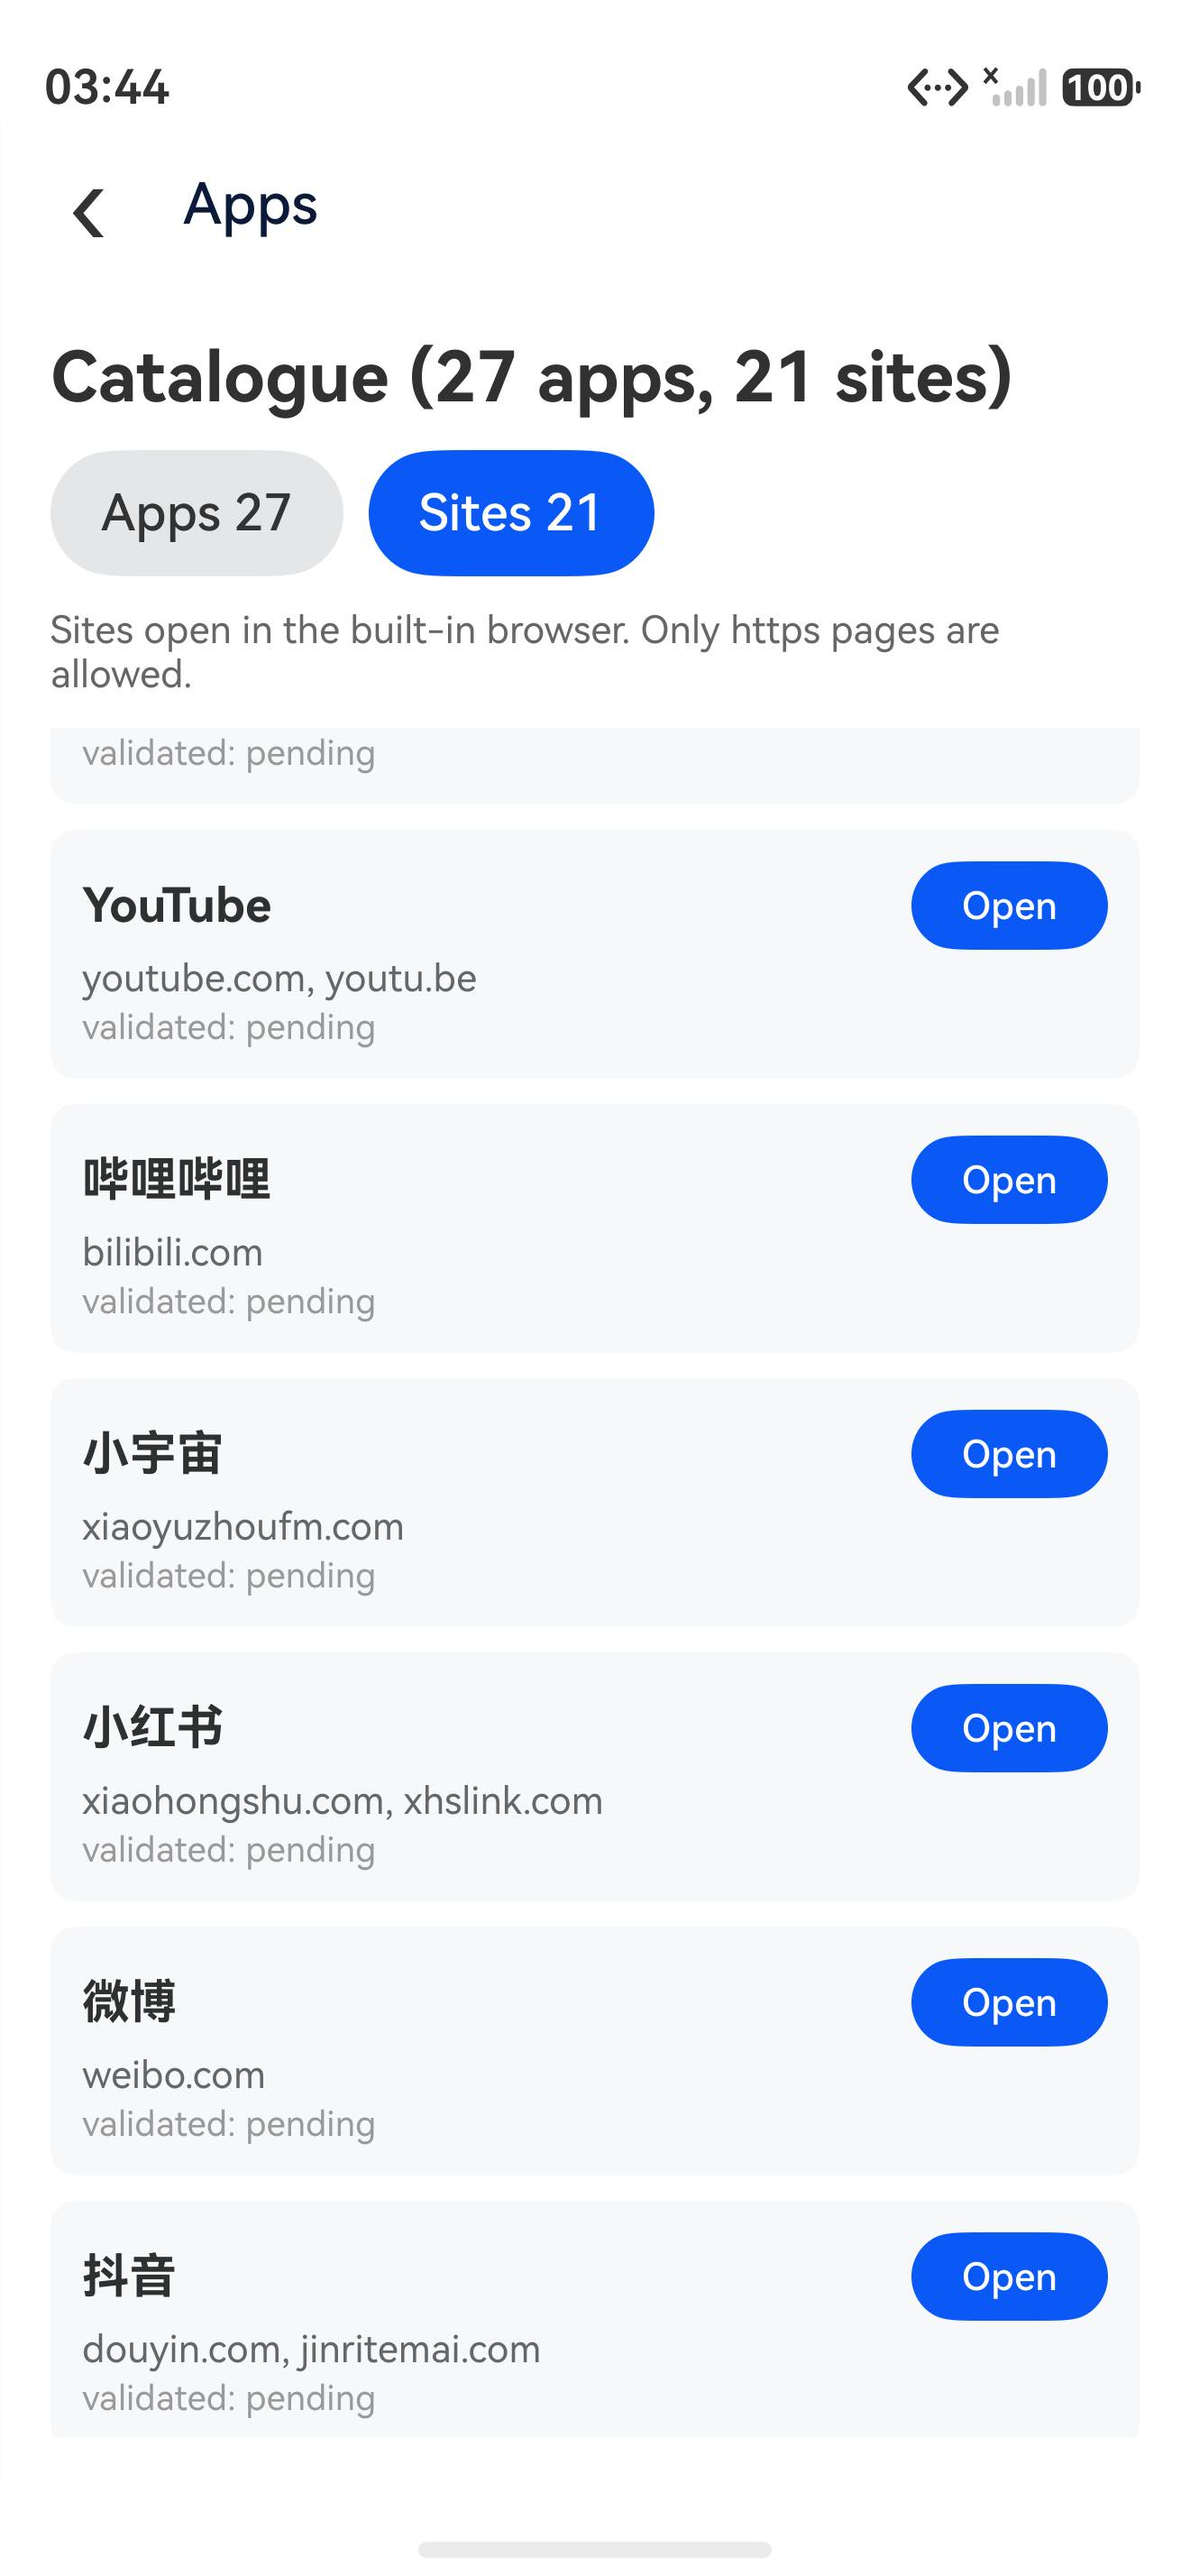
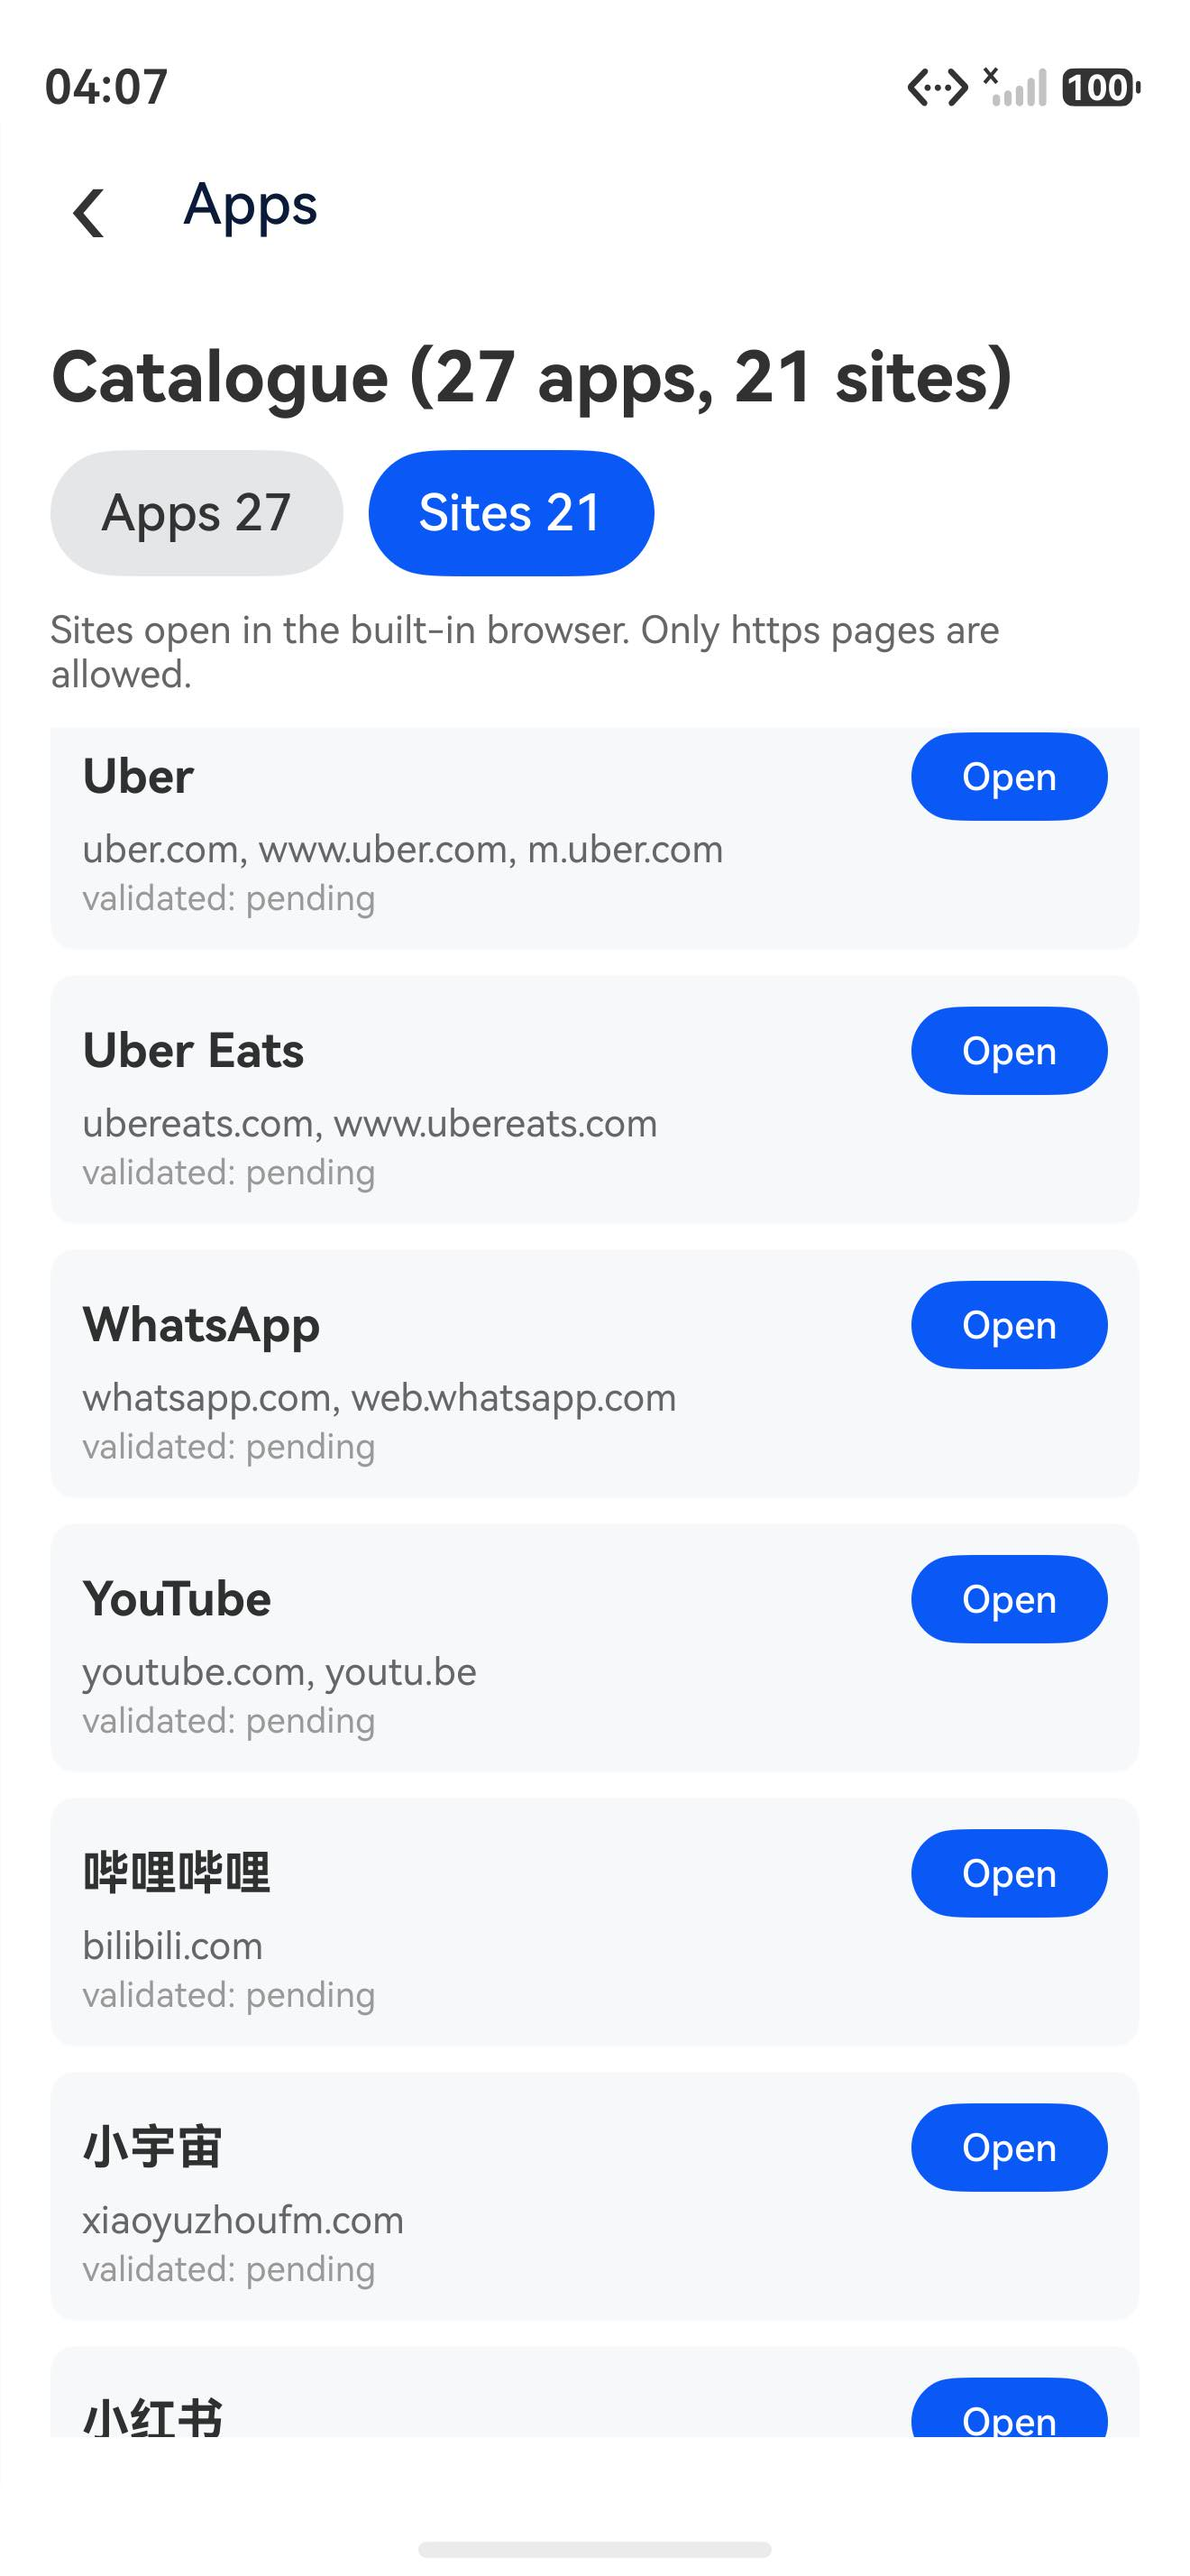
docs: reorder the README around the proof; add the Bilibili page; split chat and catalogue screenshots

diff --git a/README.md b/README.md
@@ -10,55 +10,67 @@
 
 </div>
 
+# HOPA
+
 **You have better things to do than tap through menus.**
 
 HOPA is a phone assistant for HarmonyOS. You say what you want in your own
-words. It opens the app, reads the screen, taps, types and scrolls — then tells
-you what happened.
+words. It opens the app or the website, reads the screen, taps, types and
+scrolls — then tells you what happened.
 
 Before money moves, it stops and asks. Every time.
 
-> **Today:** a working prototype. Chat, the browser, memory and the app-control
-> loop are real. On this emulator a small PC companion lends HOPA its hands.
-> [The honest details →](docs/history/status-2026-11-07.md)
+> **Today:** a working prototype. Chat, the browser, memory and the
+> app-and-website control loop are real. On this emulator a small PC companion
+> lends HOPA its hands. [The honest details →](docs/history/status-2026-11-07.md)
 
-## A small example
+## See it work
 
-> **You:** “Summarize what’s trending on Bilibili today in three short points.”
+> **You:** “Answer in Chinese: summarize the 2 hottest Bilibili videos today,
+> with titles and view counts.”
 >
-> **HOPA:** opens Bilibili, reads the page and gives you the three main trends.
-> If it needs to post, send or pay, it asks first.
+> **HOPA:** opens Bilibili, reads the page and answers in Chinese with the two
+> hottest videos. If it needs to post, send or pay, it asks first.
 
-<img src="docs/media/how-it-works.svg" alt="You ask; HOPA looks and acts; you see the result" width="100%" />
+<table>
+<tr>
+<td width="33%" align="center" valign="top">
 
-## What it feels like
+<img src="docs/media/chat.jpeg" alt="Real chat: HOPA lists the two hottest Bilibili videos in Chinese" height="560" />
 
-**You talk normally.** No commands, no scripts. “What’s hot on Bilibili?”
-“Send Alice a message.” “Find a charger under $30.”
+<br/><sub><b>Real: the answer.</b> The two hottest videos, in Chinese: 《近十几年的梗都在这里了》 (3.27M views) and 《“你土木的不会抽烟？？废物”》 (1.76M views).</sub>
 
-**It works in your apps.** HOPA uses the apps already on your phone, not a
-separate universe. No new ecosystem to learn.
+</td>
+<td width="33%" align="center" valign="top">
 
-**It stops for money.** Every payment waits for your yes — every time, in every
-mode.
+<img src="docs/media/bilibili-page.jpeg" alt="Real Bilibili page with video thumbnails and view counts" height="560" />
 
-**It remembers.** Tell it once: “I prefer aisle seats.” It keeps that, and you
-can delete it whenever you like.
+<br/><sub><b>Real: what it read.</b> The Bilibili page, with video cards and view counts, inside the compact browser.</sub>
 
-**It shows its work.** Every run has a history: what it did, how long it took,
-and what needed your approval.
+</td>
+<td width="33%" align="center" valign="top">
 
-**Your key, your data.** There is no HOPA account and no hosted backend. Your
-model key goes to the model you choose.
+<img src="docs/media/chat-example.svg" alt="Designed example: a WeChat message task with the approval dialog" height="560" />
 
-## Things you can say
+<br/><sub><b>Designed: the app side.</b> HOPA found Alice, drafted the message and stopped for approval. WeChat is not installed on the test emulator.</sub>
 
-| Sites and apps | The little things |
+</td>
+</tr>
+</table>
+
+The first two are real screenshots from the emulator. The WeChat image is a
+designed example of the app flow; the label says so.
+
+## What you can ask
+
+| Apps | The web |
 |---|---|
-| “What are the top stories on Zhihu?”<br/>“What’s trending on Xiaohongshu?”<br/>“Summarize the top videos on Bilibili.” | “Send Alice ‘running 10 minutes late’ on WeChat.”<br/>“Find a 4.5-star charger under $30 on Amazon.”<br/>“Remember that I prefer aisle seats.” |
+| “Send Alice ‘running 10 minutes late’ on WeChat.”<br/>“Check my messages on Feishu.”<br/>“Find a charger on Xianyu.” | “What are the top stories on Zhihu?”<br/>“What’s trending on Xiaohongshu?”<br/>“Summarize the top videos on Bilibili.” |
 
 <sub>Site examples run in the browser HOPA opens for you. App examples need
 that app installed; HOPA says when a bundle is missing instead of guessing.</sub>
+
+It also remembers facts and skills you choose to keep.
 
 **When money is involved**
 
@@ -67,42 +79,42 @@ that app installed; HOPA says when a bundle is missing instead of guessing.</sub
 > HOPA shows the item, the total and the seller. You choose **Deny** or
 > **Allow**. Nothing is paid without you.
 
+## What it can reach
+
 <table>
 <tr>
 <td width="50%" align="center" valign="top">
 
-<img src="docs/media/chat.jpeg" alt="Real chat: HOPA opens Bilibili and summarizes the trends" height="560" />
+<img src="docs/media/apps.jpeg" alt="HOPA app catalogue with Chinese apps" height="560" />
 
-<br/><sub><b>Real: a website task.</b> One prompt: HOPA opened Bilibili, read the page and answered in Chinese.</sub>
-
-</td>
-<td width="50%" align="center" valign="top">
-
-<img src="docs/media/chat-example.svg" alt="Designed example of a WeChat message task with the approval dialog" height="560" />
-
-<br/><sub><b>Designed: an app task.</b> A WeChat message with the approval step; WeChat is not installed on the test emulator.</sub>
-
-</td>
-</tr>
-<tr>
-<td width="50%" align="center" valign="top">
-
-<img src="docs/media/apps.jpeg" alt="HOPA app catalogue" height="560" />
-
-<br/><sub><b>Real: the app catalogue.</b> WeChat, Weibo, Xiaohongshu, Zhihu and more; when a bundle is missing, HOPA says so instead of guessing.</sub>
+<br/><sub><b>Real: the app catalogue.</b> WeChat, Weibo, Xiaohongshu, Zhihu and more; where a HarmonyOS bundle is missing, HOPA says so. The top of the same tab lists 12 apps with a verified bundle.</sub>
 
 </td>
 <td width="50%" align="center" valign="top">
 
 <img src="docs/media/sites.jpeg" alt="HOPA site catalogue with Bilibili, Xiaohongshu and Weibo" height="560" />
 
-<br/><sub><b>Real: the site catalogue.</b> Bilibili, Xiaohongshu, Weibo and more in the site catalogue.</sub>
+<br/><sub><b>Real: the site catalogue.</b> Bilibili, Xiaohongshu, Weibo and more open in the browser HOPA opens for you.</sub>
 
 </td>
 </tr>
 </table>
 
-## Getting started
+## Why it feels different
+
+- **You talk normally.** No commands, no scripts. “What’s hot on Bilibili?”
+  “Send Alice a message.” “Find a charger under $30.”
+- **It uses your apps, not a new ecosystem.** It reads the screen and works the
+  app or site you already have.
+- **It stops for money.** Every payment waits for your yes — every time, in
+  every mode.
+- **Your key, your data.** There is no HOPA account and no hosted backend. Your
+  model key goes to the model you choose.
+
+It also remembers what you tell it and can turn a successful run into a skill,
+both editable in the app.
+
+## Get started
 
 **1. Put HOPA on your phone.**
 Today the app is built and signed from source. The two commands live in the
@@ -117,42 +129,34 @@ in memory; it is not saved to preferences.
 On a real phone, enable the built-in screen control. On this emulator, start
 the small PC companion and connect it in **Settings → PC bridge**.
 
-**4. Say something.**
-Try “What are the top videos on Bilibili right now?”
+Why a companion? On a real phone, the system has a built-in way to let an
+assistant see and tap. This emulator does not have that switch. The companion
+is a small program on your computer that lends HOPA its hands. It runs on your
+machine, not in the cloud.
 
-### Why a PC companion?
-
-On a real phone, the system has a built-in way to let an assistant see and tap.
-This emulator does not have that switch. The companion is a small program on
-your computer that lends HOPA its hands. It runs on your machine, not in the
-cloud, and you only need it when the phone cannot do it alone.
+Then say: “What’s trending on Bilibili today?”
 
 ## Good to know
 
 - HOPA sees the screen you see. It cannot work in the background.
-- It will not guess an app it does not know.
+- It will not guess an app it does not know. Fifteen catalogue apps have no
+  HarmonyOS bundle yet, and five more have an unverified one.
 - Login, CAPTCHA and verification codes stay with you.
 - Some apps block automation; HOPA stops and hands over.
 - The PC companion is for a trusted network.
-- 15 apps in the catalogue have no HarmonyOS bundle yet, and 5 more have an
-  unverified one. HOPA says so instead of pretending.
-- This emulator is not a phone: its accessibility switch is missing, the input
-  service can stall, and some system features fail.
+- This emulator has no accessibility switch; a real phone with it enabled is
+  the untethered path.
 
-## Where it is today
+### Where it is today
 
-A working prototype. With the PC companion, these work today:
+| Works | Needs a device or data |
+|---|---|
+| Chat, browser, memory, skills, plans, batch, runs and export | Untethered app control on this emulator |
+| App control through the PC companion | Speech |
+| A website task from Chat: open Bilibili, read it and summarize | System reminders |
+|  | 15 apps without a bundle; 5 unverified |
+|  | The retail AppGallery ACL |
 
-- chat and reasoning
-- the built-in browser
-- memory, skills, plans and batch runs
-- run history, export and self-check
-- app launch, screen reading, tap, type and scroll
-- the full **launch → observe → tap → observe** loop inside a real app
-- a website task from Chat: open Bilibili, read it and summarize the trends
-
-Not available on this emulator: untethered app control, speech and system
-reminders. A real phone with the built-in control is the untethered path.
 Read the dated, per-capability state in
 [docs/product/coverage.md](docs/product/coverage.md).
 
